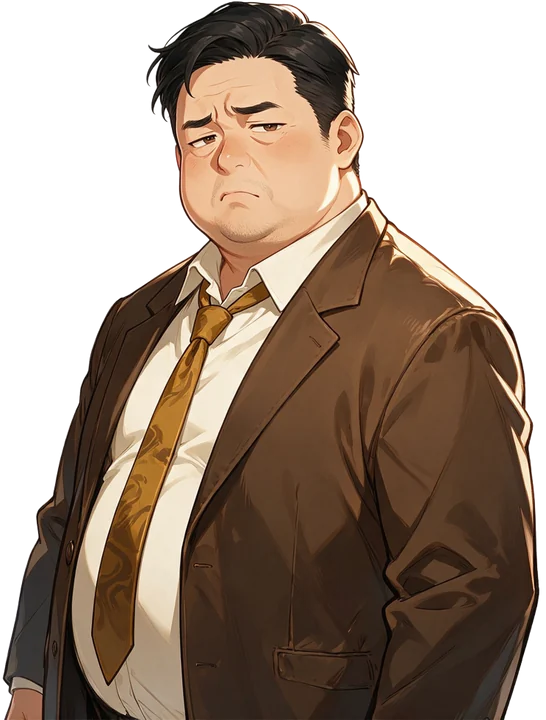
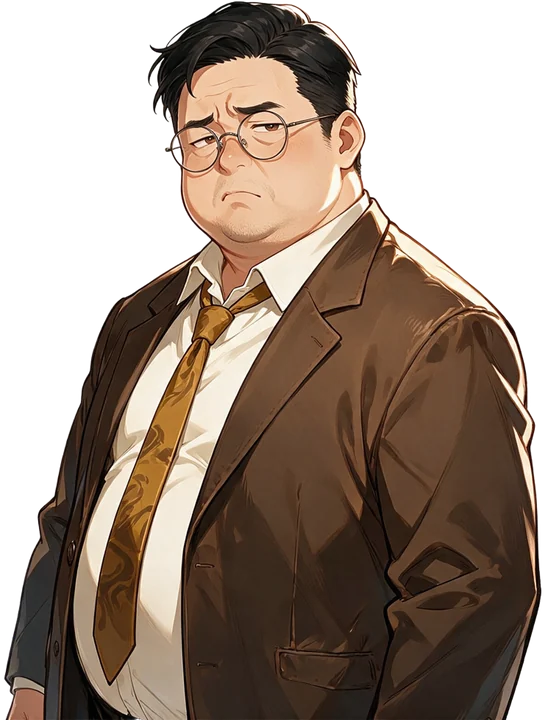
Misaeng, to Plot's m19-m22c (f9c1324): ms_babyfinger and ms_sauna edited to the new briefs (an awake baby girl at his finger, Kim in his suit; a dry sauna, Go in round glasses leaning toward Steve Han); Go gets round glasses (walker, CAST, portrait edited at 3:4 from its original); the director grey
Claude-Session: https://claude.ai/code/session_01PgFWANZ31jD9jaHVPjMEnq

diff --git a/tk.js b/tk.js
@@ -176,7 +176,7 @@ const TK_CHARS = {
   ms_kimbr: { name: "Kim Bu-ryeon", skin: "#e8c09a", hair: "#6a6466", hat: "balding", robe: "#4a4a52", trim: "#4a4a52", shirt: "#eef0f2", tie: "#6a2a2a", legs: "#3e3e46", beard: "none", eyes: "narrow", glasses: "#2a2228", fat: true },
   ms_exec: { name: "The Executive", skin: "#ecc29a", hair: "#8a8a8e", hat: "slick", robe: "#1e2028", trim: "#1e2028", shirt: "#f4f4f4", tie: "#7a2a2a", legs: "#1a1c22", beard: "none", eyes: "narrow" },
   ms_president: { name: "The President", skin: "#efd0b0", hair: "#d8d8d8", hat: "parted", robe: "#2a2a34", trim: "#2a2a34", shirt: "#f4f4f4", tie: "#2e4a6a", legs: "#24242c", beard: "none", eyes: "kind" },
-  ms_director: { name: "The Director", skin: "#e2b089", hair: "#5a5a5a", hat: "short", robe: "#3a3a42", trim: "#3a3a42", shirt: "#eeeeee", tie: "#5a3a2a", legs: "#303038", beard: "none", eyes: "round", glasses: "#2a2228" },
+  ms_director: { name: "The Director", skin: "#e2b089", hair: "#a8a8a8", hat: "short", robe: "#c8b48e", trim: "#c8b48e", shirt: "#eeeeee", tie: "#5a3a2a", legs: "#b0a07c", beard: "none", eyes: "round", glasses: "#2a2228" },
   ms_parkjg: { name: "Park Jong-gi", skin: "#f0cfac", hair: "#2a2024", hat: "parted", robe: "#5a6a5a", trim: "#5a6a5a", shirt: "#eef0f2", tie: "#3a4a6a", legs: "#4a524a", beard: "none", eyes: "kind", glasses: "#4a4448" },
   ms_client: { name: "The Client", skin: "#e2b089", hair: "#4a4448", hat: "balding", robe: "#5a4a3a", trim: "#5a4a3a", shirt: "#f0ece0", tie: "#8a6a2a", legs: "#4a3e30", beard: "none", eyes: "narrow", fat: true },
   ms_ma: { name: "Department Head Ma", skin: "#e8c09a", hair: "#2a2024", hat: "slick", robe: "#3a3a44", trim: "#3a3a44", shirt: "#eeeeee", tie: "#4a2a4a", legs: "#30303a", beard: "none", eyes: "narrow" },
@@ -195,7 +195,7 @@ const TK_CHARS = {
   ms_daycare: { name: "Daycare teacher", skin: "#f8dcc4", hair: "#3a2a26", hat: "ponytail", robe: "#8ab88a", trim: "#f4f0e8", legs: "#4a4a5a", beard: "none", eyes: "kind" },
   // Book 1 (Not Yet Alive)
   ms_stevehan: { name: "Steve Han", skin: "#efc59d", hair: "#1a1416", hat: "slick", robe: "#1e2230", trim: "#1e2230", shirt: "#f4f6fa", tie: "#5a6a8a", legs: "#1a1e2a", beard: "none", eyes: "narrow" },   // US-raised textile head, a sharp suit
-  ms_go: { name: "Go Gwa-jang", skin: "#e8b88c", hair: "#2a2024", hat: "short", robe: "#5a5048", trim: "#5a5048", shirt: "#e8e4dc", tie: "#7a5a2a", legs: "#4a4238", beard: "none", eyes: "narrow", fat: true },   // round, sulky
+  ms_go: { name: "Go Gwa-jang", skin: "#e8b88c", hair: "#2a2024", hat: "short", robe: "#5a5048", trim: "#5a5048", shirt: "#e8e4dc", tie: "#7a5a2a", legs: "#4a4238", beard: "none", eyes: "narrow", fat: true, glasses: "#2a2228" },   // round, sulky
   ms_buyer: { name: "American buyer", skin: "#f4d8c8", hair: "#a87a4a", hat: "parted", robe: "#7a7a84", trim: "#7a7a84", shirt: "#c8d8ea", tie: "#8a2a2a", legs: "#5a5a64", beard: "none", eyes: "round" },
   ms_leesh: { name: "Lee Sang-hyun", skin: "#f2d2b0", hair: "#2a2024", hat: "short", robe: "#3a4256", trim: "#3a4256", shirt: "#eef0f2", tie: "#6a3a5a", legs: "#2e3444", beard: "none", eyes: "normal", glasses: "#2a2228" },
   ms_hanfather: { name: "Han Seok-yul's father", skin: "#d8a47c", hair: "#3a3236", hat: "short", robe: "#3a5a7a", trim: "#2a3a4a", legs: "#3a5a7a", beard: "stubble", eyes: "kind" },   // factory overalls

diff --git a/tk-cutscene.js b/tk-cutscene.js
@@ -724,7 +724,7 @@ const WorldCutscene = {
   // the prop atlas (props, emote bubbles, gift icons), loaded once per game
   // the stills that exist (tools/gen_stills.py writes assets/tk/stills/stills.json), fetched once
   stillIndex() {
-    if (!this._stills) this._stills = fetch("assets/tk/stills/stills.json?v=32").then(r => r.ok ? r.json() : {}).catch(() => ({}));
+    if (!this._stills) this._stills = fetch("assets/tk/stills/stills.json?v=33").then(r => r.ok ? r.json() : {}).catch(() => ({}));
     return this._stills;
   },
   stillSrc(m) { return `assets/tk/stills/${m.file}?v=${m.made || ""}${m.look || ""}`; },   // a redone still is fetched anew

diff --git a/index.html b/index.html
@@ -24,13 +24,13 @@
   <div class="modal" id="authModal"></div>
 </div>
 <script src="engine/engine-utils.js"></script>
-<script src="tk.js?v=182"></script>
-<script src="tk-town.js?v=54"></script>
+<script src="tk.js?v=183"></script>
+<script src="tk-town.js?v=55"></script>
 <script src="tk-iso.js?v=12"></script>
 <script src="tk-world.js?v=305"></script>
 <script src="tk-items.js?v=10"></script>
 <script src="tk-feats.js?v=6"></script>
-<script src="tk-cutscene.js?v=79"></script>
+<script src="tk-cutscene.js?v=80"></script>
 <script src="tk-music.js?v=6"></script>
 <script src="tk-travel.js?v=16"></script>
 <script src="app.js?v=70"></script>

diff --git a/tk-town.js b/tk-town.js
@@ -223,7 +223,7 @@ const TownArt = {
 /* ---------- DOM overlay: goal, dialogue with portraits and voice ---------- */
 const TownUI = {
   // who -> portrait file (assets/tk/portraits/portraits.json, tools/build_portraits.py), fetched once
-  portraits: {}, PORTRAIT_V: 13,
+  portraits: {}, PORTRAIT_V: 14,
   loadPortraits() {
     if (!this._pp) this._pp = fetch(`assets/tk/portraits/portraits.json?v=${this.PORTRAIT_V}`).then(r => r.ok ? r.json() : {})
       .catch(() => ({})).then(m => { this.portraits = m; for (const f of Object.values(m)) new Image().src = `assets/tk/portraits/${f}?v=${this.PORTRAIT_V}`; });

diff --git a/tools/tk_stills.py b/tools/tk_stills.py
@@ -246,7 +246,7 @@ CAST.update({
     "ms_somi": ("Somi", "a little Korean girl of five with two small buns tied with pink ribbons, in a yellow dress"),
     "ms_stevehan": ("Steve Han", "a sleek, cold Korean-American department head in his forties, raised in the US, with "
                     "slicked-back black hair, in a sharp tailored black suit and a steel-blue tie"),
-    "ms_go": ("Go Gwa-jang", "a round, sulky Korean section head in his forties with short hair and heavy cheeks, in a "
+    "ms_go": ("Go Gwa-jang", "a round, sulky Korean section head in his forties with short hair, round glasses and heavy cheeks, in a "
               "rumpled brown suit and a mustard-brown tie"),
     "ms_buyer": ("the American buyer", "a white American businessman in his fifties with brown side-parted hair, in a "
                  "grey suit, light blue shirt and a red tie"),
@@ -281,6 +281,8 @@ CAST.update({
                  "in a navy site jacket and a white hard hat"),
     "ms_teacher": ("Jang's teacher", "a calm old Korean go teacher in his sixties with grey hair and a short grey beard, "
                    "in a brown cardigan"),
+    "ms_director": ("the director", "a stern Korean company director in his late fifties with grey hair, in a beige "
+                    "suit and a brown tie"),
     "ms_examiner": ("the examiner", "a reserved Korean man in his fifties with greying side-parted hair and glasses, in "
                     "a dark suit and a plain grey tie, holding a clipboard"),
     "ms_ahnfather": ("Ahn's father", "a cold, stern Korean army officer in his fifties with short black hair, in an "
